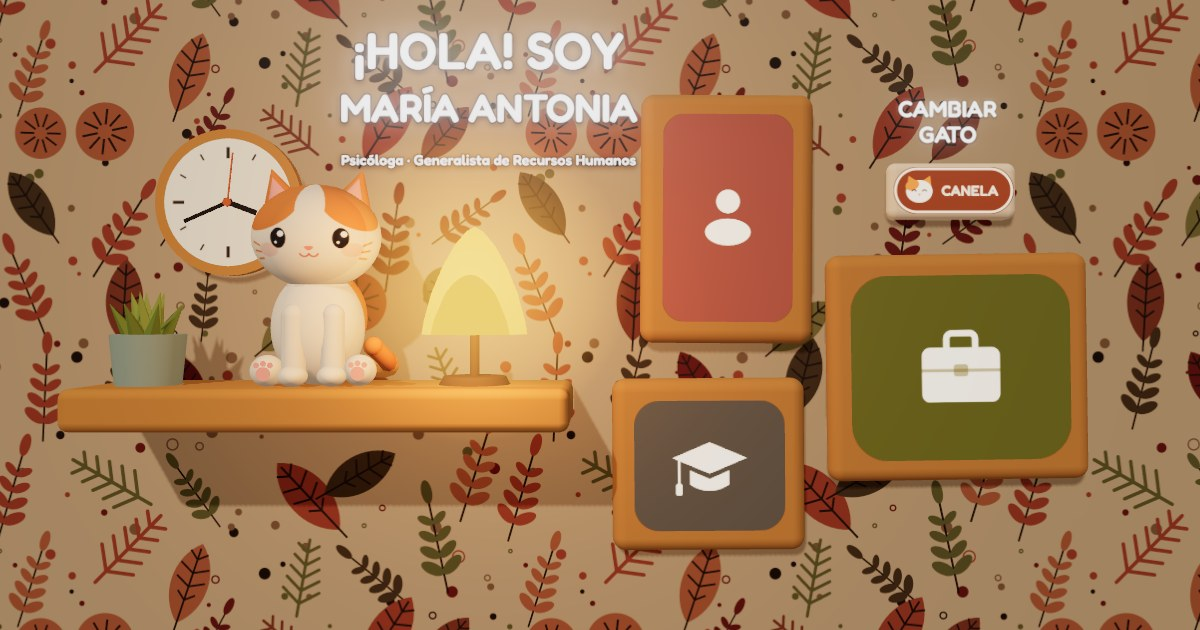
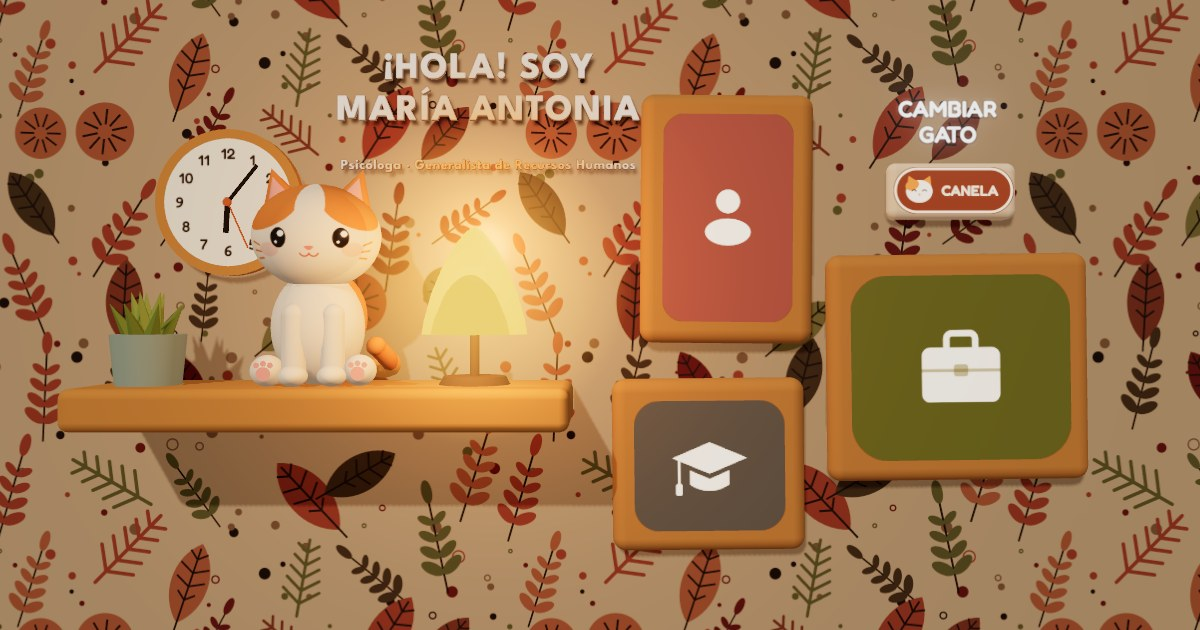
feat: SEO schemas, sitemap, absolute social image and light switches
- og:image, twitter:image, og:url and canonical use the full site URL
- Add schema.org Person, ProfilePage and WebSite structured data
- Generate sitemap.xml and robots.txt at build time
- Night light under the desk toggles on click; lights play a switch sound
- Cat-shaped AC favicon, regenerated social image, English C1 in skills

diff --git a/index.html b/index.html
@@ -8,14 +8,20 @@
     <meta name="author" content="María Antonia Chica Quintero" />
 
     <!-- Vista previa al compartir (Open Graph: WhatsApp, LinkedIn, Facebook) -->
-    <!-- Al publicar el sitio, cambia og:image y twitter:image por la URL completa, -->
-    <!-- por ejemplo https://tudominio.com/og-image.jpg, y agrega og:url. -->
-    <meta property="og:type" content="website" />
+    <!-- __SITE_URL__ se reemplaza por el dominio definido en vite.config.js: las redes -->
+    <!-- solo muestran la imagen si og:image es una URL completa. -->
+    <link rel="canonical" href="__SITE_URL__/" />
+    <meta name="robots" content="index, follow, max-image-preview:large" />
+    <meta property="og:url" content="__SITE_URL__/" />
+    <meta property="og:type" content="profile" />
+    <meta property="profile:first_name" content="María Antonia" />
+    <meta property="profile:last_name" content="Chica Quintero" />
     <meta property="og:locale" content="es_CO" />
     <meta property="og:site_name" content="María Antonia Chica" />
     <meta property="og:title" content="María Antonia Chica | Psicóloga y Generalista de RR. HH." />
     <meta property="og:description" content="Portafolio 3D de María Antonia Chica, psicóloga y generalista de Recursos Humanos: selección, nómina multipaís y automatización de procesos con IA." />
-    <meta property="og:image" content="/og-image.jpg" />
+    <meta property="og:image" content="__SITE_URL__/og-image.jpg" />
+    <meta property="og:image:secure_url" content="__SITE_URL__/og-image.jpg" />
     <meta property="og:image:type" content="image/jpeg" />
     <meta property="og:image:width" content="1200" />
     <meta property="og:image:height" content="630" />
@@ -25,7 +31,144 @@
     <meta name="twitter:card" content="summary_large_image" />
     <meta name="twitter:title" content="María Antonia Chica | Psicóloga y Generalista de RR. HH." />
     <meta name="twitter:description" content="Portafolio 3D de María Antonia Chica, psicóloga y generalista de Recursos Humanos: selección, nómina multipaís y automatización de procesos con IA." />
-    <meta name="twitter:image" content="/og-image.jpg" />
+    <meta name="twitter:image" content="__SITE_URL__/og-image.jpg" />
+
+    <!-- Datos estructurados (schema.org) para buscadores -->
+    <script type="application/ld+json">
+      {
+        "@context": "https://schema.org",
+        "@graph": [
+          {
+            "@type": "WebSite",
+            "@id": "__SITE_URL__/#website",
+            "url": "__SITE_URL__/",
+            "name": "María Antonia Chica | Portafolio",
+            "description": "Portafolio 3D de María Antonia Chica, psicóloga y generalista de Recursos Humanos: selección, nómina multipaís y automatización de procesos con IA.",
+            "inLanguage": "es-CO",
+            "publisher": {
+              "@id": "__SITE_URL__/#person"
+            }
+          },
+          {
+            "@type": "ProfilePage",
+            "@id": "__SITE_URL__/#profilepage",
+            "url": "__SITE_URL__/",
+            "name": "María Antonia Chica | Psicóloga y Generalista de RR. HH.",
+            "inLanguage": "es-CO",
+            "isPartOf": {
+              "@id": "__SITE_URL__/#website"
+            },
+            "about": {
+              "@id": "__SITE_URL__/#person"
+            },
+            "mainEntity": {
+              "@id": "__SITE_URL__/#person"
+            },
+            "primaryImageOfPage": {
+              "@type": "ImageObject",
+              "url": "__SITE_URL__/og-image.jpg",
+              "width": 1200,
+              "height": 630
+            }
+          },
+          {
+            "@type": "Person",
+            "@id": "__SITE_URL__/#person",
+            "name": "María Antonia Chica Quintero",
+            "givenName": "María Antonia",
+            "familyName": "Chica Quintero",
+            "url": "__SITE_URL__/",
+            "image": "__SITE_URL__/Antonia-Chica.jpg",
+            "jobTitle": "Generalista de Recursos Humanos",
+            "description": "Psicóloga y generalista de Recursos Humanos con 2 años de experiencia en selección, administración de personal y nómina para empresas con operación en Colombia, Estados Unidos y República Dominicana.",
+            "email": "mailto:maria.antoniachica24@gmail.com",
+            "telephone": "+57 301 515 7767",
+            "address": {
+              "@type": "PostalAddress",
+              "addressLocality": "Envigado",
+              "addressRegion": "Antioquia",
+              "addressCountry": "CO"
+            },
+            "sameAs": [
+              "https://www.linkedin.com/in/maria-antonia-chica-quintero-6a698a223"
+            ],
+            "worksFor": {
+              "@type": "Organization",
+              "name": "Talent Phi",
+              "parentOrganization": {
+                "@type": "Organization",
+                "name": "Grupo Corporativo Efficient"
+              }
+            },
+            "hasOccupation": {
+              "@type": "Occupation",
+              "name": "Generalista de Recursos Humanos",
+              "occupationLocation": {
+                "@type": "Country",
+                "name": "Colombia"
+              },
+              "skills": "Selección de personal, administración de personal, liquidación de nómina, seguridad social y PILA, nómina electrónica DIAN, procesos disciplinarios, onboarding y offboarding, SG-SST, automatización de procesos de RH con inteligencia artificial"
+            },
+            "alumniOf": [
+              {
+                "@type": "CollegeOrUniversity",
+                "name": "Universidad de San Buenaventura, Medellín"
+              },
+              {
+                "@type": "CollegeOrUniversity",
+                "name": "Universidad de Deusto, Bilbao"
+              }
+            ],
+            "hasCredential": [
+              {
+                "@type": "EducationalOccupationalCredential",
+                "name": "Psicología",
+                "credentialCategory": "degree",
+                "recognizedBy": {
+                  "@type": "CollegeOrUniversity",
+                  "name": "Universidad de San Buenaventura, Medellín"
+                }
+              },
+              {
+                "@type": "EducationalOccupationalCredential",
+                "name": "Diplomado en Gestión del Talento Humano con HR Analytics e Inteligencia Artificial",
+                "credentialCategory": "certificate",
+                "recognizedBy": {
+                  "@type": "Organization",
+                  "name": "UdeCataluña"
+                }
+              }
+            ],
+            "knowsLanguage": [
+              {
+                "@type": "Language",
+                "name": "Español",
+                "alternateName": "es"
+              },
+              {
+                "@type": "Language",
+                "name": "Inglés",
+                "alternateName": "en"
+              }
+            ],
+            "knowsAbout": [
+              "Recursos Humanos",
+              "Psicología organizacional",
+              "Selección de personal",
+              "Reclutamiento masivo",
+              "Administración de personal",
+              "Nómina",
+              "Nómina electrónica DIAN",
+              "Seguridad social y PILA",
+              "SG-SST",
+              "Onboarding y offboarding",
+              "HR Analytics",
+              "Automatización de procesos con inteligencia artificial"
+            ]
+          }
+        ]
+      }
+    </script>
 
     <link rel="icon" type="image/svg+xml" href="/favicon.svg" />
     <link rel="preconnect" href="https://fonts.googleapis.com" />
@@ -212,6 +355,12 @@
           <li>ChatGPT</li>
           <li>Copilot</li>
         </ul>
+        <h3 class="skill-group">Idiomas</h3>
+        <ul class="skill-list">
+          <li>Inglés C1</li>
+          <li>Inglés a diario con hablantes nativos de Miami</li>
+          <li>Español nativo</li>
+        </ul>
       </div>
     </div>
 
@@ -356,8 +505,8 @@
         <div class="certification-item">
           <h4>Inglés</h4>
           <p>
-            Avanzado: uso diario en nómina, contratos, entrevistas y comunicación con el equipo de
-            EE.UU.
+Nivel C1 (avanzado). Lo hablo todos los días con hablantes nativos de Miami: uso diario
+            en nómina, contratos, entrevistas y comunicación con el equipo de EE.UU.
           </p>
         </div>
       </div>

diff --git a/src/experience/Room.js b/src/experience/Room.js
@@ -1,5 +1,6 @@
 import * as THREE from 'three';
 import gsap from 'gsap';
+import { playSwitch } from '../audio.js';
 import { RoundedBoxGeometry } from 'three/addons/geometries/RoundedBoxGeometry.js';
 import {
   floorTexture,
@@ -306,6 +307,7 @@ export class Room {
 
   toggleLamp() {
     const on = (this.lampOn = !this.lampOn);
+    playSwitch(on);
     const duration = on ? 0.25 : 0.4;
     const color = (material, hex) => {
       const c = new THREE.Color(hex);
@@ -921,6 +923,16 @@ export class Room {
   }
 
   /* ---------- Parada 3: debajo del escritorio ---------- */
+  toggleNightLight() {
+    const on = (this.nightOn = !this.nightOn);
+    playSwitch(on);
+    const duration = on ? 0.25 : 0.4;
+    const c = new THREE.Color(on ? '#ffd28a' : '#8f7d62');
+    gsap.to(this, { nightPower: on ? 1 : 0, duration });
+    gsap.to(this.nightBulb.material.color, { r: c.r, g: c.g, b: c.b, duration });
+    this.nightTarget.label = on ? 'Apagar luz' : 'Encender luz';
+  }
+
   buildUnderDesk() {
     // Enchufe con luz de noche
     const socket = new THREE.Group();
@@ -938,6 +950,17 @@ export class Room {
     this.nightLight = new THREE.PointLight('#ffb866', 0, 12, 2);
     this.nightLight.position.set(0.42, 0.12, 1.3);
     socket.add(this.nightLight);
+
+    // Clic en la luz de noche: se apaga y se vuelve a encender
+    this.nightOn = true;
+    this.nightPower = 1; // 0 apagada, 1 encendida
+    this.nightTarget = this.addTarget({
+      group: socket,
+      size: [1.1, 0.9, 0.6],
+      offset: [0.22, 0.05, 0.2],
+      label: 'Apagar luz',
+      onClick: () => this.toggleNightLight(),
+    });
 
     // Tapete
     const rugY = FLOOR_Y + 0.02;
@@ -1042,9 +1065,9 @@ export class Room {
     this.ambient.intensity = lerp(0.6, 0.2, night);
     this.hemi.intensity = lerp(0.35, 0.1, night);
     this.sun.intensity = lerp(1.0, 0.22, night);
-    this.nightLight.intensity = lerp(0, 13, night);
+    this.nightLight.intensity = lerp(0, 13, night) * this.nightPower;
     this.screenLight.intensity = lerp(0, 2.5, night);
-    this.nightBulb.scale.setScalar(1 + Math.sin(elapsed * 2) * 0.04);
+    this.nightBulb.scale.setScalar(1 + Math.sin(elapsed * 2) * 0.04 * this.nightPower);
 
     // Reloj
     const now = new Date();

diff --git a/src/audio.js b/src/audio.js
@@ -99,3 +99,47 @@ export class Ambient {
     return this.playing;
   }
 }
+
+/* ---------- Efectos ---------- */
+let fxContext = null;
+
+/** Clic de interruptor al encender (más agudo) o apagar (más grave) una luz. */
+export function playSwitch(on) {
+  try {
+    fxContext ||= new (window.AudioContext || window.webkitAudioContext)();
+    const ctx = fxContext;
+    if (ctx.state === 'suspended') ctx.resume();
+    const now = ctx.currentTime;
+    const out = ctx.createGain();
+    out.gain.value = 0.5;
+    out.connect(ctx.destination);
+
+    // Chasquido: ráfaga muy corta de ruido filtrado
+    const length = Math.floor(ctx.sampleRate * 0.03);
+    const buffer = ctx.createBuffer(1, length, ctx.sampleRate);
+    const data = buffer.getChannelData(0);
+    for (let i = 0; i < length; i++) data[i] = (Math.random() * 2 - 1) * (1 - i / length) ** 3;
+    const noise = ctx.createBufferSource();
+    noise.buffer = buffer;
+    const band = ctx.createBiquadFilter();
+    band.type = 'bandpass';
+    band.frequency.value = on ? 3200 : 1900;
+    band.Q.value = 1.2;
+    noise.connect(band).connect(out);
+    noise.start(now);
+
+    // Golpe seco del mecanismo
+    const osc = ctx.createOscillator();
+    const gain = ctx.createGain();
+    osc.type = 'triangle';
+    osc.frequency.setValueAtTime(on ? 420 : 260, now);
+    osc.frequency.exponentialRampToValueAtTime(on ? 180 : 90, now + 0.06);
+    gain.gain.setValueAtTime(0.5, now);
+    gain.gain.exponentialRampToValueAtTime(0.001, now + 0.09);
+    osc.connect(gain).connect(out);
+    osc.start(now);
+    osc.stop(now + 0.1);
+  } catch {
+    // Sin audio disponible: la luz cambia igual, en silencio
+  }
+}

diff --git a/vite.config.js b/vite.config.js
@@ -1,0 +1,46 @@
+import { defineConfig } from 'vite';
+
+// Dirección pública del sitio. Se usa para la imagen de vista previa (og:image),
+// la URL canónica, los datos estructurados, el sitemap y robots.txt.
+// Si el sitio cambia de dominio, basta con cambiarla aquí (o definir SITE_URL).
+const SITE_URL = (process.env.SITE_URL || 'https://portafolio-interactivo-psicologa-or.vercel.app').replace(/\/+$/, '');
+
+export default defineConfig({
+  plugins: [
+    {
+      name: 'site-url',
+      // WhatsApp, LinkedIn y Facebook solo muestran la imagen si og:image es una URL completa
+      transformIndexHtml(html) {
+        return html.replaceAll('__SITE_URL__', SITE_URL);
+      },
+      generateBundle() {
+        const today = new Date().toISOString().slice(0, 10);
+        this.emitFile({
+          type: 'asset',
+          fileName: 'sitemap.xml',
+          source: `<?xml version="1.0" encoding="UTF-8"?>
+<urlset xmlns="http://www.sitemaps.org/schemas/sitemap/0.9" xmlns:image="http://www.google.com/schemas/sitemap-image/1.1">
+  <url>
+    <loc>${SITE_URL}/</loc>
+    <lastmod>${today}</lastmod>
+    <changefreq>monthly</changefreq>
+    <priority>1.0</priority>
+    <image:image>
+      <image:loc>${SITE_URL}/og-image.jpg</image:loc>
+    </image:image>
+    <image:image>
+      <image:loc>${SITE_URL}/Antonia-Chica.jpg</image:loc>
+    </image:image>
+  </url>
+</urlset>
+`,
+        });
+        this.emitFile({
+          type: 'asset',
+          fileName: 'robots.txt',
+          source: `User-agent: *\nAllow: /\n\nSitemap: ${SITE_URL}/sitemap.xml\n`,
+        });
+      },
+    },
+  ],
+});
